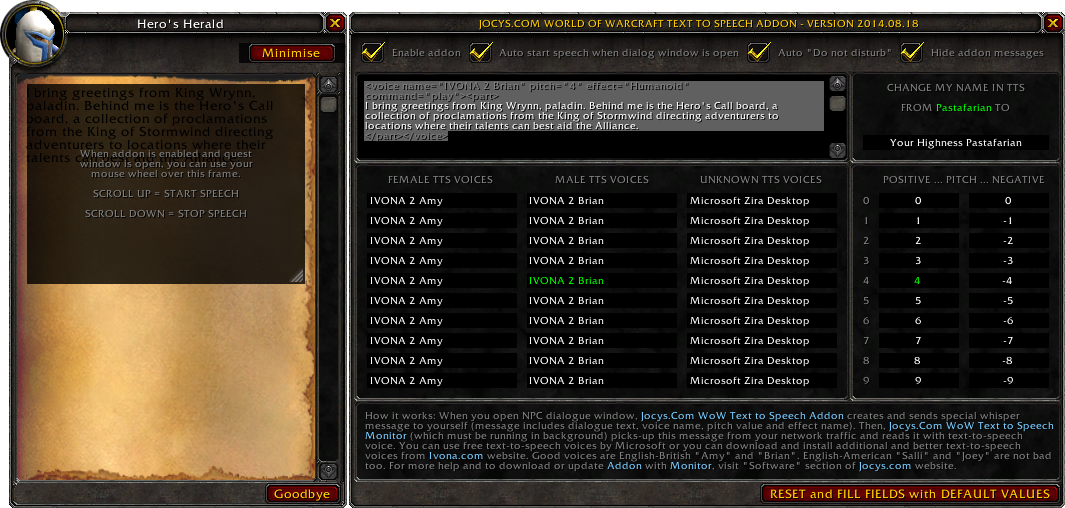
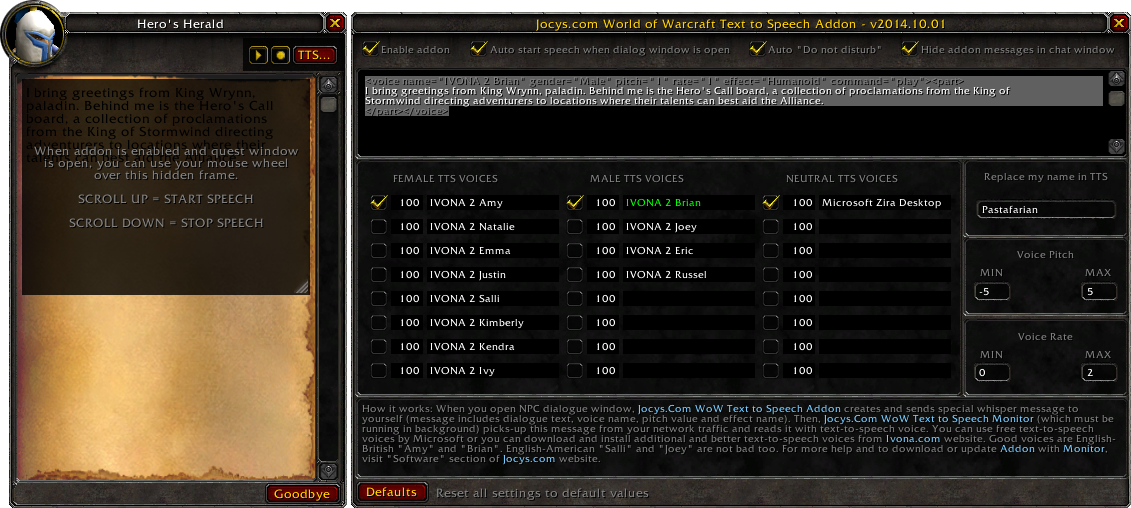
Save Settings bug fix, layout and screen-shots update.

diff --git a/TextToSpeech/Addon/Downloads/Default.htm b/TextToSpeech/Addon/Downloads/Default.htm
@@ -1,0 +1,19 @@
+<!DOCTYPE html PUBLIC "-//W3C//DTD XHTML 1.0 Transitional//EN" "http://www.w3.org/TR/xhtml1/DTD/xhtml1-transitional.dtd">
+<html xmlns="http://www.w3.org/1999/xhtml">
+<head>
+	<title>downloads.jocys.com</title>
+	<meta http-equiv="Pragma" content="no-cache" />
+	<meta http-equiv="Expires" content="-1" />
+	<meta http-equiv="Content-Type" content="text/html; charset=utf-8" />
+</head>
+<body style="background-color: #eeeeee;">
+	<center>
+		<div style="width: 500px; background-color: #ffffff; padding: 8px;">
+			<h1>
+				downloads.jocys.com</h1>
+			Amazon S3 Downloads<br />
+		</div>
+		<br />
+	</center>
+</body>
+</html>
